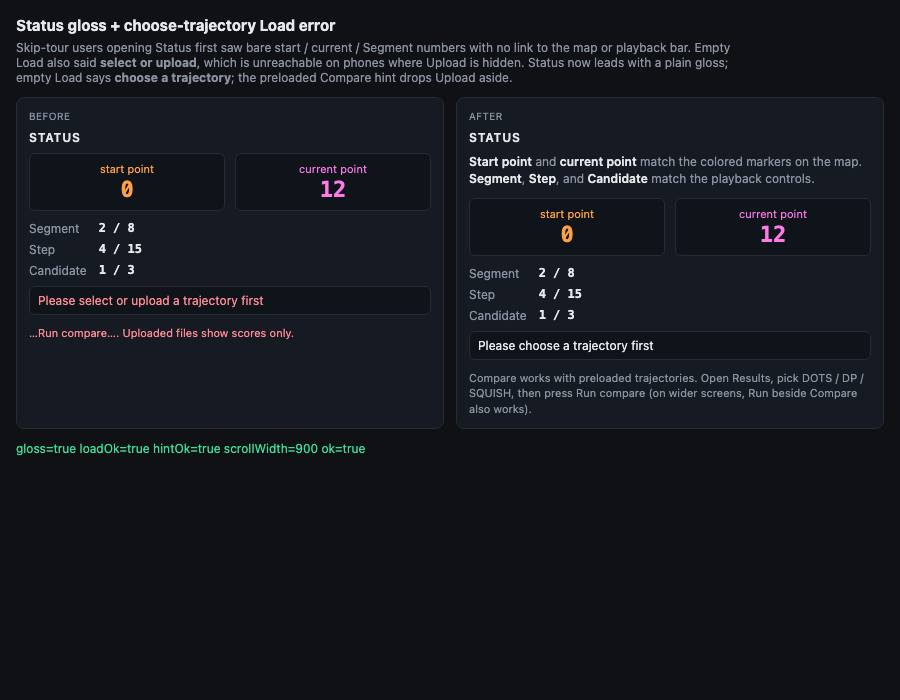
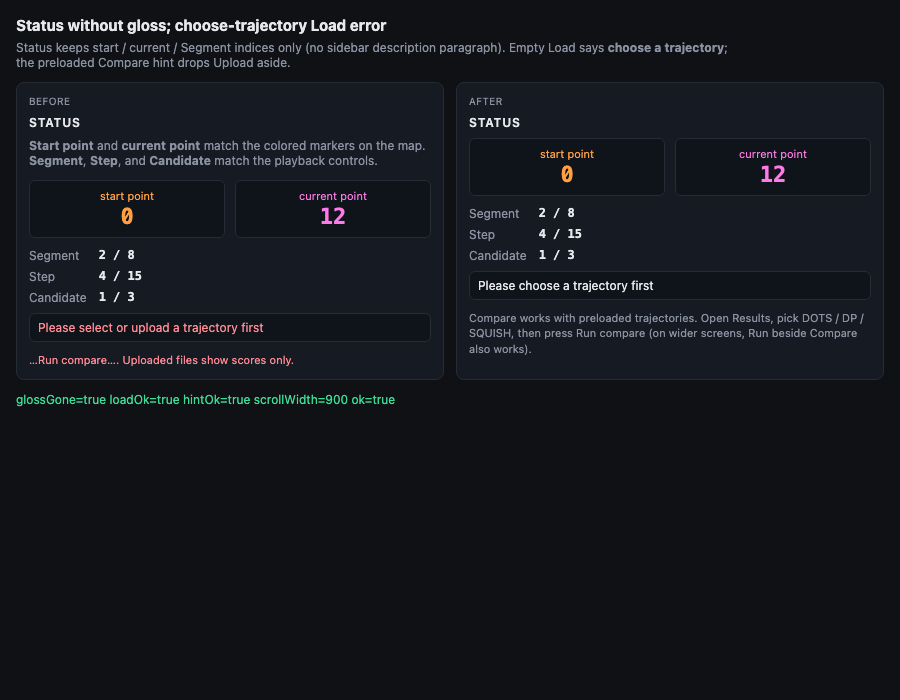
no-mistakes(review): Restore match-limit chip; refresh status-gloss PNG

diff --git a/web/viewer.js b/web/viewer.js
@@ -1196,6 +1196,9 @@
       : formatTraceNumber(parseFloat(deltaInput.value));
     const gridLength = trace && trace.grid_val != null ? formatTraceNumber(trace.grid_val) : "…";
     const diskRadius = trace && trace.r_val != null ? formatTraceNumber(trace.r_val) : "…";
+    const expectedFrechet = trace && trace.expected_frechet != null
+      ? formatTraceNumber(trace.expected_frechet)
+      : "…";
     const streamLen = trace && trace.stream ? trace.stream.length : "…";
     const simplifiedLen = trace && trace.simplified ? trace.simplified.length : null;
     const ratio = simplifiedLen != null
@@ -1208,6 +1211,7 @@
       paramChip("δ", deltaValue, "Delta (δ): grid spacing. Smaller uses finer spacing."),
       paramChip("grid cell length", gridLength, "Length of one grid cell."),
       paramChip("ball radius", diskRadius, "Radius of the B_p / B_vi δ-balls."),
+      paramChip("match limit", expectedFrechet, "Match limit for this run (same idea as ε): how far the green path may drift from the input. A smaller match limit keeps a more detailed green path."),
       paramChip("original points", streamLen, "Number of points on the original trajectory."),
       paramChip("kept points", simplifiedLen != null ? simplifiedLen : "…", "Number of points kept on the green path.", pendingStyle),
       paramChip("kept %", ratio, "Kept points as a percent of original points.", pendingStyle),
